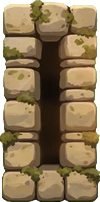
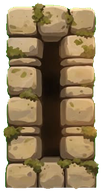
Glen's battlements along the top of the watchtower (no more straight cut against the sky), and the tower's windows cut again from his transparent sheet with their light spilling out and fading, not cropped square
Claude-Session: https://claude.ai/code/session_018JCxWMW6fjujBK12FtijwU

diff --git a/game/region.js b/game/region.js
@@ -159,7 +159,7 @@ const KIT = {
   tw_slab: { w: 221, h: 80 }, tw_step2: { w: 200, h: 115 }, tw_blocks: { w: 287, h: 67 }, tw_corbel: { w: 188, h: 253 },
   tw_buttress: { w: 306, h: 631 }, tw_buttress_ruin: { w: 292, h: 559 }, tw_pier: { w: 241, h: 498 }, tw_pier_stub: { w: 310, h: 233 },
   tw_key: { w: 80, h: 231 }, tw_lever_up: { w: 118, h: 345 }, tw_lever_down: { w: 151, h: 221 }, tw_gate_shut: { w: 219, h: 377 }, tw_gate_open: { w: 187, h: 311 },   // (his key, lever and gate: the key at the top of the tower; the lever and gate for what it opens, to come)
-  tw_door_shut: { w: 159, h: 215 }, tw_door_open: { w: 162, h: 221 }, tw_hatch: { w: 155, h: 161 }, tw_door_arch: { w: 211, h: 244 }, tw_door_plank: { w: 134, h: 226 }, tw_win_slit: { w: 94, h: 199 }, tw_win: { w: 132, h: 181 }, tw_win_arch: { w: 138, h: 197 }, tw_win_slit_dark: { w: 100, h: 202 }, tw_win_glow: { w: 154, h: 201 },   // (his tower doors and windows)
+  tw_door_shut: { w: 159, h: 215 }, tw_door_open: { w: 162, h: 221 }, tw_hatch: { w: 155, h: 161 }, tw_door_arch: { w: 211, h: 244 }, tw_door_plank: { w: 134, h: 226 }, tw_win_slit: { w: 94, h: 198, pad: [3, 3, 10, 45] }, tw_win: { w: 134, h: 170, pad: [3, 2, 12, 64] }, tw_win_arch: { w: 138, h: 200, pad: [3, 3, 22, 48] }, tw_win_slit_dark: { w: 95, h: 190, pad: [3, 3, 3, 0] }, tw_win_glow: { w: 170, h: 194, pad: [0, 2, 0, 0] },   // (his tower doors and windows)
   hr_spearwall: { w: 173, h: 167 }, hr_wall0: { w: 216, h: 632 }, hr_wall1: { w: 216, h: 632 }, hr_wall2: { w: 216, h: 632 }, hr_wall3: { w: 216, h: 632 }, hr_wall4: { w: 216, h: 632 }, hr_stool: { w: 89, h: 56 }, hr_rug: { w: 323, h: 30 }, hr_rack: { w: 86, h: 173 },   // (hr_wall0-4: Glen 11-05, the plaster between the first two carved pillars, from his harp_strip_source and _strike1, 2, 4, 5)
   c_arch: { w: 179, h: 202 }, c_crackwall: { w: 235, h: 615 }, c_crackopen: { w: 293, h: 616 }, c_brokendoor: { w: 294, h: 338 }, c_ruindoor: { w: 375, h: 317 },
   // (Glen 11-05) the olive press (the save point) and a campfire, side on
@@ -320,8 +320,9 @@ function drawProps(camX) {
   for (const p of region.props) {
     if (p.front) continue;   // (drawRegionFront: over David)
     const k = KIT[p.n], im = kitImg(p.n), x = Math.round(p.x - camX), s = p.s || 1; if (!im || x > W || x + k.w * s < 0) continue;
-    if (p.y > camY + H + 50 || p.y + k.h * s < camY - 50) continue;   // (a tall room: off above or below)
-    if (p.flip) { ctx.save(); ctx.translate(x + k.w * s, 0); ctx.scale(-1, 1); ctx.drawImage(im, 0, Math.round(p.y), k.w * s, k.h * s); ctx.restore(); }   // (mirrored)
+    if (p.y > camY + H + 50 || p.y + k.h * s < camY - 120) continue;   // (a tall room: off above or below)
+    if (k.pad) { const [l, t, r, b] = k.pad; ctx.drawImage(im, x - l * s, Math.round(p.y - t * s), (k.w + l + r) * s, (k.h + t + b) * s); }   // (pad: the picture runs past the piece's box, its light spilling out: w, h are the frame)
+    else if (p.flip) { ctx.save(); ctx.translate(x + k.w * s, 0); ctx.scale(-1, 1); ctx.drawImage(im, 0, Math.round(p.y), k.w * s, k.h * s); ctx.restore(); }   // (mirrored)
     else ctx.drawImage(im, x, Math.round(p.y), k.w * s, k.h * s);
     if (p.legs) {   // the legs on down to the ground: the band of rows that's only legs, again and again
       const [a, b] = KIT.LEG, bh = b - a;
@@ -641,7 +642,7 @@ function regionCam() {
 }
 function regionInit() {
   region.inited = true;
-  for (const r of REGION.rooms) { for (const k of ["strip", "floor", "art", "block", "far", "mid"]) roomImg(r[k]); (r.tower || []).forEach(roomImg); if (r.tower) Object.values(TOWER.END).forEach(e => roomImg(e.img)); if (r.tallWall) Object.values(r.tallWall).forEach(roomImg); if (r.tower || r.tallWall) roomImg("gibeah/sky_clouds"); }
+  for (const r of REGION.rooms) { for (const k of ["strip", "floor", "art", "block", "far", "mid"]) roomImg(r[k]); (r.tower || []).forEach(roomImg); if (r.tower) { Object.values(TOWER.END).forEach(e => roomImg(e.img)); TOWER_TOP.pieces.forEach(p => roomImg(p.img)); } if (r.tallWall) Object.values(r.tallWall).forEach(roomImg); if (r.tower || r.tallWall) roomImg("gibeah/sky_clouds"); }
   for (const n in KIT) if (n.startsWith("tw_")) kitImg(n);   // (the tower's kit, ready before he climbs)   // load them all now (no old backdrop flashing first)
   for (const n in KIT) if (KIT[n].w) kitImg(n);
   const poms = region.save.taken.filter(id => id.startsWith("g_pom")).length;
@@ -1026,6 +1027,11 @@ const TOWER = { TILE_W: 640, TILE_H: 1138, OV: 90, OPEN: 40, END_STEP: 851, END_
 // corner stones meet the inside, px in the picture: that's at the tower's edge, inset columns in); END_STEP: stacked
 // this far apart (each fades in over the one above); END_UP: they rise this far over the open top   // (Glen 11-05) his tower wall pictures, as laid up the tower (px); OV: each fades in over its left and top neighbors this far (no seams)
 const towerTopY = r => (-r.up + 8) * T - TOWER.OPEN;   // (the lookout: open above this)
+// (Glen 11-05) his battlements along the top of the tower (david-sling-2-art/rooms/gibeah/tower_wall_a_source_top-of-wall-2.png,
+// tower_wall_b_source_top-wall.png -> tower_top_a/b.png, at the tower's scale, fading out at the bottom into the stone):
+// solid: px from the picture's top to where the wall is whole (under the gaps between the merlons); DROP: that line, px over the lookout floor
+const TOWER_TOP = { pieces: [{ img: "gibeah/tower_top_b.png", solid: 50 }, { img: "gibeah/tower_top_a.png", solid: 135 }], DROP: 70 };
+const towerWallTopY = r => (-r.up + 8) * T - TOWER_TOP.DROP;   // (where his tower stone stops: the battlements' whole wall from here up)
 function cloudSky(r, camX, fallback) {   // (Glen 11-05) his sky of clouds, repeating, drifting slowly behind (the color till it's loaded)
   const im = roomImg("gibeah/sky_clouds");
   if (!im) { ctx.fillStyle = fallback; ctx.fillRect(0, camY, W, H); return; }
@@ -1042,7 +1048,8 @@ function drawTowerWall(r, camX) {   // his two walls, tile by tile, picked at ra
   towerSky(r, camX);
   if (ims.some(im => !im)) return;
   const L = (r.c0 + r.inset) * T - 60 - camX, R = (r.c0 + r.w - r.inset) * T + 40 - camX;   // (under the ends' corner stones)
-  ctx.save(); ctx.beginPath(); ctx.rect(L, towerTopY(r), R - L, H - towerTopY(r) + 2000); ctx.clip();
+  const wt = towerWallTopY(r) + 30;   // (the tiles stop under the battlements' whole wall)
+  ctx.save(); ctx.beginPath(); ctx.rect(L, wt, R - L, H - wt + 2000); ctx.clip();
   const { TILE_W: tw, TILE_H: th, OV: ov } = TOWER, x0 = r.c0 * T, top = -r.up * T;
   for (let ix = Math.floor((camX - x0) / tw); ix * tw + x0 < camX + W; ix++)
     for (let iy = Math.floor((camY - top) / th); iy * th + top < camY + H; iy++) {
@@ -1050,6 +1057,14 @@ function drawTowerWall(r, camX) {   // his two walls, tile by tile, picked at ra
       const x = Math.round(x0 + ix * tw - camX - ov), y = Math.round(top + iy * th - ov), w = tw + ov, h = th + ov;
       ctx.drawImage(im, x, y, w, h);   // (the mirrored ones are their own pictures: the soft edges stay on the left and top)
     }
+  ctx.restore();
+  // his battlements across the top, the pieces side by side (the corner stones cover their ends)
+  const base = towerWallTopY(r); if (base + 400 < camY) return;
+  ctx.save(); ctx.beginPath(); ctx.rect(L, camY, R - L, H); ctx.clip();
+  for (let x = L, i = 0; x < R; i++) {
+    const p = TOWER_TOP.pieces[i % TOWER_TOP.pieces.length], im = roomImg(p.img); if (!im) break;
+    ctx.drawImage(im, Math.round(x), Math.round(base - p.solid)); x += im.naturalWidth - 2;
+  }
   ctx.restore();
 }
 function drawTowerEnds(camX) {   // (Glen 11-05) the tower's two ends: his corner stones against the sky, the fields far off

diff --git a/tools/cut_windows.py b/tools/cut_windows.py
@@ -1,0 +1,35 @@
+from PIL import Image; import numpy as np, json, sys
+from scipy import ndimage
+src='C:/Users/big_g/Desktop/david-sling-2-art/rooms/gibeah/tower_doors_windows_sheet2.png'
+a=np.asarray(Image.open(src).convert('RGBA')).astype(float); H,W=a.shape[:2]
+frames=[(107,303,646,1059),(468,747,663,1018),(876,1163,634,1051),(1321,1519,646,1041),(1635,1989,657,1061)]
+names=['tw_win_slit','tw_win','tw_win_arch','tw_win_slit_dark','tw_win_glow']
+mids=[0]+[(frames[i][1]+frames[i+1][0])//2 for i in range(4)]+[W]
+SC=0.48; out={}; ims=[]
+for i,(fx0,fx1,fy0,fy1) in enumerate(frames):
+    rx0,rx1=mids[i],mids[i+1]; oy=H//2
+    reg=a[oy:,rx0:rx1].copy()
+    r,g,b=reg[...,0],reg[...,1],reg[...,2]; lum=(r+g+b)/3
+    inframe=np.zeros(lum.shape,bool); inframe[fy0-oy:fy1-oy, fx0-rx0:fx1-rx0]=True
+    below=np.zeros(lum.shape,bool); below[fy1-oy-10:]=True
+    reg[...,3][(lum<110)&below]=0                              # the rays' ragged dark ends
+    reg[...,3][(g>r+6)&(g>b+70)&(lum>120)&~inframe]=0          # green-yellow flecks outside the frame
+    reg[...,3][(g>r+6)&(g>b+70)&(lum>150)&inframe&(reg[...,3]<250)]=0
+    reg[...,3][(b<0.5*g)&(g>150)&(g>r-25)]=0                    # lime-yellow drips (the light itself is cream)
+    lab,n=ndimage.label(reg[...,3]>12); sz=ndimage.sum(np.ones_like(lab),lab,range(1,n+1))
+    for j in np.where(sz<150)[0]: reg[...,3][lab==j+1]=0       # loose specks
+    m=reg[...,3]>6; ys,xs=np.where(m)
+    y0,y1,x0,x1=ys.min(),ys.max()+1,xs.min(),xs.max()+1
+    fb=fy1-oy; L=y1-fb
+    if L>20:
+        t=np.clip((np.arange(reg.shape[0])-fb)/L,0,1); reg[...,3]*=((1-t)**1.6)[:,None]   # the rays fade out
+    pad=6; y0=max(0,y0-pad); x0=max(0,x0-pad); y1=min(reg.shape[0],y1+pad); x1=min(reg.shape[1],x1+pad)
+    img=Image.fromarray(reg[y0:y1,x0:x1].clip(0,255).astype(np.uint8))
+    img=img.resize((round(img.width*SC),round(img.height*SC)),Image.LANCZOS)
+    img.save(f'assets/rooms/gibeah/kit_tower/{names[i]}.png'); ims.append(img)
+    l=fx0-(rx0+x0); t_=fy0-(oy+y0); rr=(rx0+x1)-fx1; bb=(oy+y1)-fy1
+    out[names[i]]=dict(w=round((fx1-fx0)*SC),h=round((fy1-fy0)*SC),pad=[round(max(0,v)*SC) for v in (l,t_,rr,bb)])
+    print(names[i],out[names[i]],img.size)
+c=Image.new('RGBA',(sum(i.width for i in ims)+100,max(i.height for i in ims)),(120,100,80,255)); x=0
+for i in ims: c.alpha_composite(i,(x,0)); x+=i.width+20
+c.resize((c.width*2,c.height*2)).save(sys.argv[1])

diff --git a/SESSION_2026-11-05.md b/SESSION_2026-11-05.md
@@ -128,5 +128,9 @@ Each plays once, saved in "taken". A scene is `rPlay([{ fn, say: [who, words], w
   - The white plinths on the Walls are gone. `rStone` places his stone steps (cols 9 and 177, the second one flipped) and the slab (col 61). Each has a one-row solid stub inside the stones (so no tile edges show) and its tops are ledges.
   - `rButtress` (named so it doesn't clash with the Halls' `rColumn`) stands buttresses and piers against the wall at cols 28, 46, 84, 114, 141, 171 and 188. They're placed first, so the walkways are in front. A pier's cap is a ledge.
   - The sky (`assets/rooms/gibeah/sky_clouds.jpg`) uses his picture's own near-repeat going up (1002 px) and across (1026 px), with a 40-60 px blend at each seam. `cloudSky` draws it slowly drifting (0.12 across, 0.25 up) behind the tall Walls and the watchtower (`towerSky`). The flat color is only a fallback while it loads.
+- **His battlements on the tower** (`tower_wall_a_source_top-of-wall-2.png`, `tower_wall_b_source_top-wall.png` -> `assets/rooms/gibeah/tower_top_a/b.png`, scaled to the tower tiles' 640/1152, the empty sky cropped off and the bottom 220 px faded out). `TOWER_TOP` sets `solid` (where the wall is whole under the merlons) and `DROP` (that line sits 70 px over the lookout floor). They're drawn across the inside of the tower after the tiles, and the tiles now stop 30 px under that line instead of cutting off straight. b (2444 px) alone spans the tower's 63 columns; a comes next in line if the tower is ever made wider.
+- **The tower's windows, cut again with their light** (Glen: they looked blocky). The source is his `tower_doors_windows_sheet2.png` (transparent). `tools/cut_windows.py` cuts the five windows with all their light rays:
+  - It removes the rays' ragged dark ends, the lime-green flecks and loose specks, and fades the rays out below the frame.
+  - The scale is 0.48. The light is padding around the frame: a piece's `KIT` w and h are still the frame (for the layout), and `pad: [left, top, right, bottom]` is how far the picture runs past it. `drawProps` draws a padded piece that size.
 - Still to come: the Philistine raids.
 - Note: tests/sling_low.js varies from run to run (creatures move); 10 to 14 OK on the same code.
